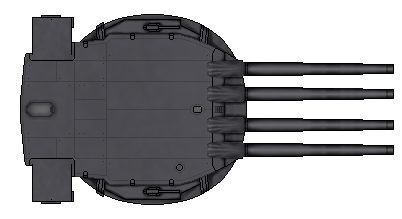
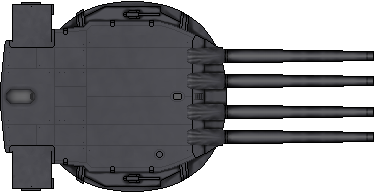
Первая версия поворотов, новый корпус, расстановка башен ГК, тестовый TurretControl, задел на систему частиц, отладка RigidBody

Changed region(s): [[0.0, 0.0, 0.9973, 0.9948], [0.44, 0.7461, 0.4693, 0.7772]]

diff --git a/src/game/PlayerControl.java b/src/game/PlayerControl.java
@@ -11,28 +11,24 @@ public class PlayerControl extends Component {
     public double radius = 720;
 
     private double dragK;
-    private double angularK = 0;
+    private double angularK = 20000;
+    private double lateralResistance = 9340000;
     private RigidBody2d rigidBody2d;
     private int speed = 0; // from -3 to 5
     private int helm = 0; // from -2 to 2
-    private Vector2 helmPosition = Vector2.ZERO;
+    private Vector2 helmPosition = Vector2.getVector2(-100, 0);
+    private Vector2 worldHelmPosition;
 
     public void start() {
         dragK = power*5/maxVelocity/maxVelocity;
         rigidBody2d = gameObject.getComponent(RigidBody2d.class);
-        Matrix3x3 t = Matrix3x3.Translate(Vector2.getVector2(10, 10));
-        Matrix3x3 r = Matrix3x3.Rotate(45);
-        System.out.println(r);
-        System.out.println(r.dot(Vector2.getVector2(50, 0)));
+        worldHelmPosition = transform.transformPosition(helmPosition);
     }
 
     public void update() {
         getKeys();
         applyForces();
         helmPosition = transform.getRIGHT().negative().mul(100);
-        for (Transform child : transform) {
-            //System.out.println(transform.localToWorldMatrix.dot(child.getLocalPosition()));
-        }
     }
     private void getKeys() {
         if (Input.isKey(KeyEvent.VK_W) && speed < 5) {
@@ -50,16 +46,20 @@ public class PlayerControl extends Component {
     }
     private void applyForces() {
         if (rigidBody2d != null) {
-            Vector2 sideVelocity = rigidBody2d.velocity.mul(rigidBody2d.velocity.dot(gameObject.transform.getUP()));
-            //System.out.println(sideVelocity.magnitude());
-            //rigidBody2d.addForceAtPosition(sideVelocity.negative().mul(sideVelocity.magnitude()), helmPosition);
-            rigidBody2d.addForce(gameObject.transform.getRIGHT().mul(power * speed));
-            rigidBody2d.addForce(rigidBody2d.velocity.negative()
-                    .mul(rigidBody2d.velocity.magnitude() * dragK));
-            //System.out.println(rigidBody2d.velocity.magnitude());
-            //System.out.println(gameObject.transform.getRIGHT().x + " " + gameObject.transform.getRIGHT().y);
+            Vector2 sideVelocity = transform.getUP().mul(rigidBody2d.velocity.dot(transform.getUP()));
+            Vector2 helmNormal = Matrix3x3.Rotate(helm * 15).dot(transform.getUP().negative());
+            Vector2 helmVelocity = helmNormal.mul(rigidBody2d.getRelativePointVelocity(helmPosition).negative()
+                    .dot(helmNormal));
+            rigidBody2d.addForceAtPosition(helmVelocity.mul(helmVelocity.magnitude() * 10000)
+                    , worldHelmPosition);
+            System.out.println("HelmVelocity = " + helmVelocity);
+            System.out.println("RelativePointVelocity = " + rigidBody2d.getRelativePointVelocity(Vector2.getVector2(-100, 0)));
+            rigidBody2d.addForce(transform.getRIGHT().mul(power * speed));
+            rigidBody2d.addForce(rigidBody2d.velocity.negative().mul(rigidBody2d.velocity.magnitude() * dragK));
+            rigidBody2d.addForce(sideVelocity.negative().mul(sideVelocity.magnitude() * lateralResistance));
+
+            System.out.println("Velocity = " + rigidBody2d.velocity.magnitude());
         }
     }
-
 }
 

diff --git a/src/game/RigidBody2d.java b/src/game/RigidBody2d.java
@@ -1,5 +1,6 @@
 package game;
 
+import linAlg.Matrix3x3;
 import linAlg.Vector2.Vector2;
 
 public class RigidBody2d extends Component {
@@ -8,18 +9,18 @@ public class RigidBody2d extends Component {
     public Vector2 centerOfMass = Vector2.ZERO.clone();
     public Vector2 worldCenterOfMass = Vector2.ZERO.clone();
     public Vector2 velocity = Vector2.ZERO.clone();
+    public Vector2 acceleration = Vector2.ZERO.clone();
+    public double angularVelocity = 0;
+    public double angularAcceleration = 0;
 
-    private double angularVelocity = 0;
-    private double angularAcceleration = 0;
     private Vector2 resultForce = Vector2.ZERO.clone();
-    private Vector2 acceleration = Vector2.ZERO.clone();
 
     public RigidBody2d() {
 
     }
     @Override
     public void update() {
-        //System.out.println(worldCenterOfMass = gameObject.transform.transformPosition(centerOfMass));
+        worldCenterOfMass = transform.transformPosition(centerOfMass);
         //System.out.println(gameObject.transform.position);
         acceleration = resultForce.div(mass);
         transform.setPosition(transform.getPosition().add(velocity.mul(Time.detlaTime)
@@ -37,15 +38,17 @@ public class RigidBody2d extends Component {
         Vector2 rForce = rVector.normalized().mul(rVector.normalized().dot(force));
         Vector2 iForce = force.sub(rForce);
         addForce(rForce);
-        //System.out.println( Math.signum(-iForce.x * rVector.y + rVector.x * iForce.y));
-        //System.out.println(iForce.magnitude());
-        //System.out.println(rVector);
 
-        angularAcceleration = Math.signum(rVector.cross(iForce));
-        //System.out.println(angularAcceleration);
+        angularAcceleration = Math.toDegrees(3 * Math.signum(iForce.cross(rVector)) * iForce.magnitude() * rVector.magnitude()
+                / mass / 2 / 10225);
         transform.setRotation(transform.getRotation() + angularVelocity * Time.detlaTime
                 + angularAcceleration * Time.detlaTime * Time.detlaTime / 2 );
         angularVelocity += angularAcceleration * Time.detlaTime;
     }
-
+    public Vector2 getRelativePointVelocity(Vector2 point) {
+        //System.out.println(point);
+        System.out.println("AngularVelocity = " + angularVelocity);
+        //System.out.println(velocity);
+        return velocity.add(Matrix3x3.Rotate(90).dot(point).mul(Math.toRadians(angularVelocity)));
+    }
 }

diff --git a/src/game/Game.java b/src/game/Game.java
@@ -91,14 +91,17 @@ public class Game extends Canvas implements Runnable {
 
         GameObject ship = new GameObject();
         ship.transform.setLocalPosition(Vector2.getVector2(0, 0));
-        ship.transform.setLocalRotation(15);
+        ship.transform.setLocalRotation(0);
         ship.transform.setLocalScale(0.06);
         RigidBody2d rigidBody2d = ship.addComponent(new RigidBody2d());
         rigidBody2d.mass = 35000000;
-        rigidBody2d.velocity = Vector2.RIGHT.mul(0);
+        rigidBody2d.velocity = Vector2.RIGHT.mul(16);
         ship.addComponent(new PlayerControl());
-        ship.addComponent(new Sprite(new ImageIcon("Resources/Dunkerk.png").getImage()));
         GameObject.instantiate(ship);
+
+        GameObject hull = new GameObject();
+        hull.addComponent(new Sprite(new ImageIcon("Resources/Dunkerk_no_CUPs.png").getImage()));
+        GameObject.instantiate(hull, ship.transform);
 
         //3435x471
         //1) зад низ 912,06 359,33
@@ -117,10 +120,24 @@ public class Game extends Canvas implements Runnable {
         GameObject.instantiate(mediumTurret, ship.transform);
 
         GameObject bigTurret = new GameObject();
-        bigTurret.addComponent(new Sprite(new ImageIcon("Resources/CUP1.png").getImage())).pivot.x = 134;
-        bigTurret.transform.setLocalPosition(Vector2.getVector2(50, 0));
+        bigTurret.addComponent(new Sprite(new ImageIcon("Resources/CUP1.png").getImage())).pivot.x = 133;
+        bigTurret.transform.setLocalPosition(Vector2.getVector2(50.6, 0));
         bigTurret.transform.setLocalRotation(60);
+        bigTurret.addComponent(new TurretControl());
         GameObject.instantiate(bigTurret, ship.transform);
+
+        GameObject bigTurret1 = new GameObject();
+        bigTurret1.addComponent(new Sprite(new ImageIcon("Resources/CUP1.png").getImage())).pivot.x = 133;
+        bigTurret1.transform.setLocalPosition(Vector2.getVector2(23, 0));
+        bigTurret1.transform.setLocalRotation(60);
+        bigTurret1.addComponent(new TurretControl());
+        GameObject.instantiate(bigTurret1, ship.transform);
+
+        GameObject top = new GameObject();
+        Sprite sprite = top.addComponent(new Sprite(new ImageIcon("Resources/RUF.png").getImage()));
+        sprite.pivot.x += 13;
+        sprite.pivot.y -= 1;
+        GameObject.instantiate(top, ship.transform);
     }
 
 }

diff --git a/src/game/Renderer.java b/src/game/Renderer.java
@@ -30,12 +30,5 @@ public class Renderer {
         affine.scale(scale, scale);
 
         g.drawImage(sprite.image, affine, null);
-        //g.setColor(Color.red);
-        //g.drawRect(Camera.main.resolutionWidth/2,
-           //     Camera.main.resolutionHeight/2, 10, 10);
-        //System.out.println(k);
-        //System.out.println("Screen position = " + position.x + "   " + position.y + " Scale = " + scale);
-        //System.out.println("AffineTranslate = " + affine.getTranslateX() + "  " + affine.getTranslateY() );
-        //System.out.println(pivotX);
     }
 }

diff --git a/src/game/Transform.java b/src/game/Transform.java
@@ -21,7 +21,7 @@ public class Transform extends Component implements Iterable<Transform> {
     private Transform parent = null;
     private ArrayList<Transform> children = new ArrayList<>();
     private Vector2 RIGHT = Vector2.getVector2(1, 0);
-    private Vector2 UP = Vector2.UP;
+    private Vector2 UP = Vector2.getVector2(0, 1);
 
     public Vector2 getPosition() {
         return position.clone();

diff --git a/src/game/TurretControl.java b/src/game/TurretControl.java
@@ -1,0 +1,9 @@
+package game;
+
+public class TurretControl extends Component {
+
+    @Override
+    public void update() {
+        transform.setLocalRotation(transform.getLocalRotation() + 10 * Time.detlaTime);
+    }
+}

diff --git a/src/game/ParticleSystem.java b/src/game/ParticleSystem.java
@@ -1,0 +1,10 @@
+package game;
+
+public class ParticleSystem extends Component {
+
+    public double lifeTime;
+    @Override
+    public void update() {
+
+    }
+}
